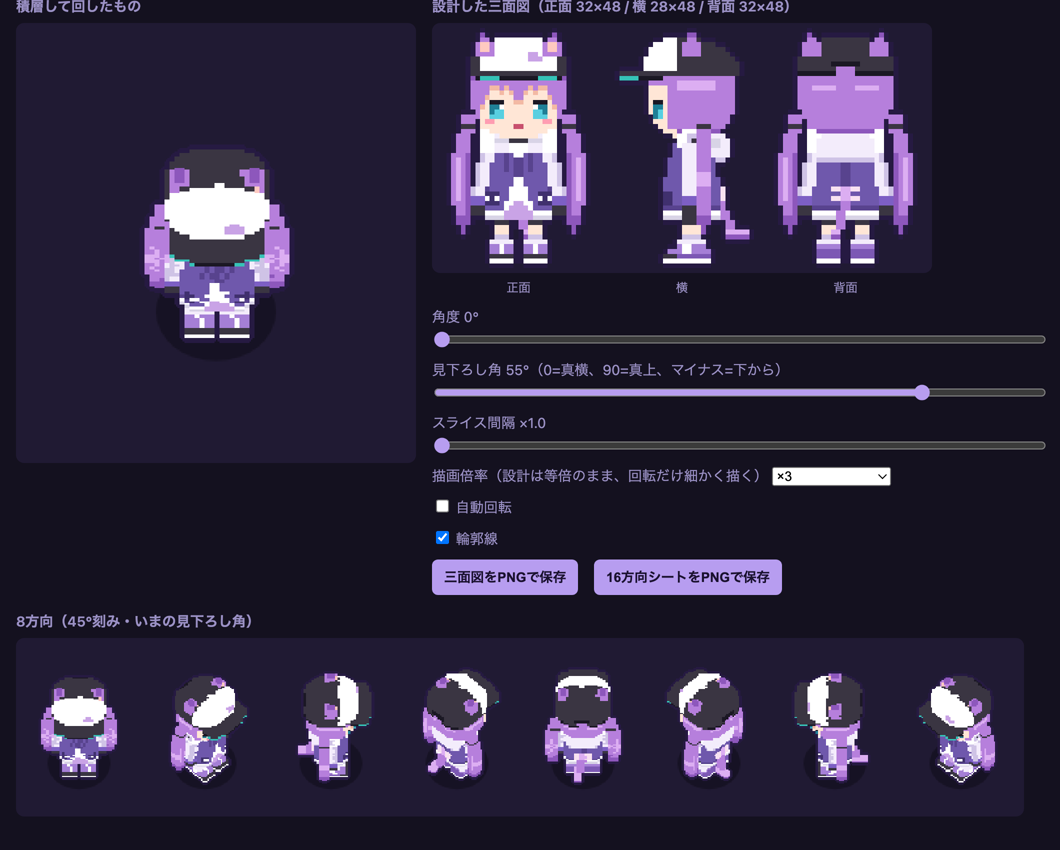
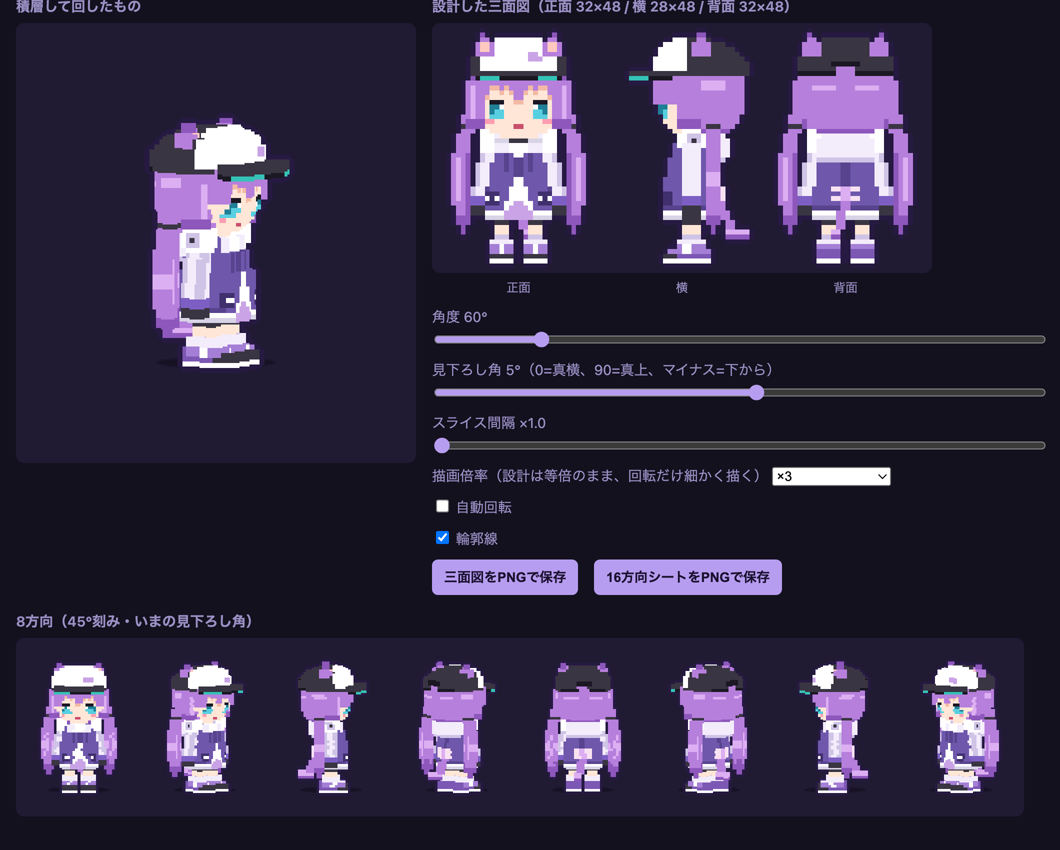
頭まわりを2px後ろへ寄せて姿勢を直す。横髪の奥行を詰めて横顔を見せる
Claude-Session: https://claude.ai/code/session_011HoqDHgmM7SEYGM4k87Uy9

diff --git a/design.js b/design.js
@@ -119,7 +119,7 @@ function mirror(p) { parts.push({name:p.name.replace('左','右'), n:p.n, depth:
   }
   for (let z = 33; z <= 38; z++) for (let x = 0; x < W; x++) p.back[z][x] = p.front[z][x];
   const s = part('横髪左'); s.depth = 10;
-  prof(s, 28, 37, z => ({cx: 6.5, hw: 1.5, cy: CY - 4, hd: z <= 29 ? 3 : 4, c: z <= 29 ? P.H3 : P.H2}));
+  prof(s, 28, 37, z => ({cx: 6.5, hw: 1.5, cy: CY - 2.5, hd: 2.5, c: z <= 29 ? P.H3 : P.H2}));   // 横顔を隠さない奥行にする
   box(s.front, 6, 6, 30, 36, P.H1);
   mirror(s); }
 // ---- キャップ（頭の上に浅く乗る。前パネルが白、ほかは黒。前が立ち、後ろへなだらか）----
@@ -139,3 +139,7 @@ function mirror(p) { parts.push({name:p.name.replace('左','右'), n:p.n, depth:
   prof(p, 43, 47, z => z <= 45 ? {cx: 8.5, hw: 2, hd: 2, c: P.H2} : z === 46 ? {cx: 8.5, hw: 1, hd: 1, c: P.H2} : {cx: 8, hw: 0.5, hd: 1, c: P.H3});
   box(p.front, 8, 9, 44, 45, P.PK);
   mirror(p); }
+// ---- 姿勢の調整: 頭まわりを後ろへ寄せて、顔が体より前に出すぎないようにする ----
+const HEAD_BACK = 2;
+for (const p of parts) if (/^(頭|前髪|横髪|キャップ|つば|猫耳|ツインテ)/.test(p.name))
+  p.side = p.side.map(r => Array(HEAD_BACK).fill(null).concat(r.slice(0, D - HEAD_BACK)));
